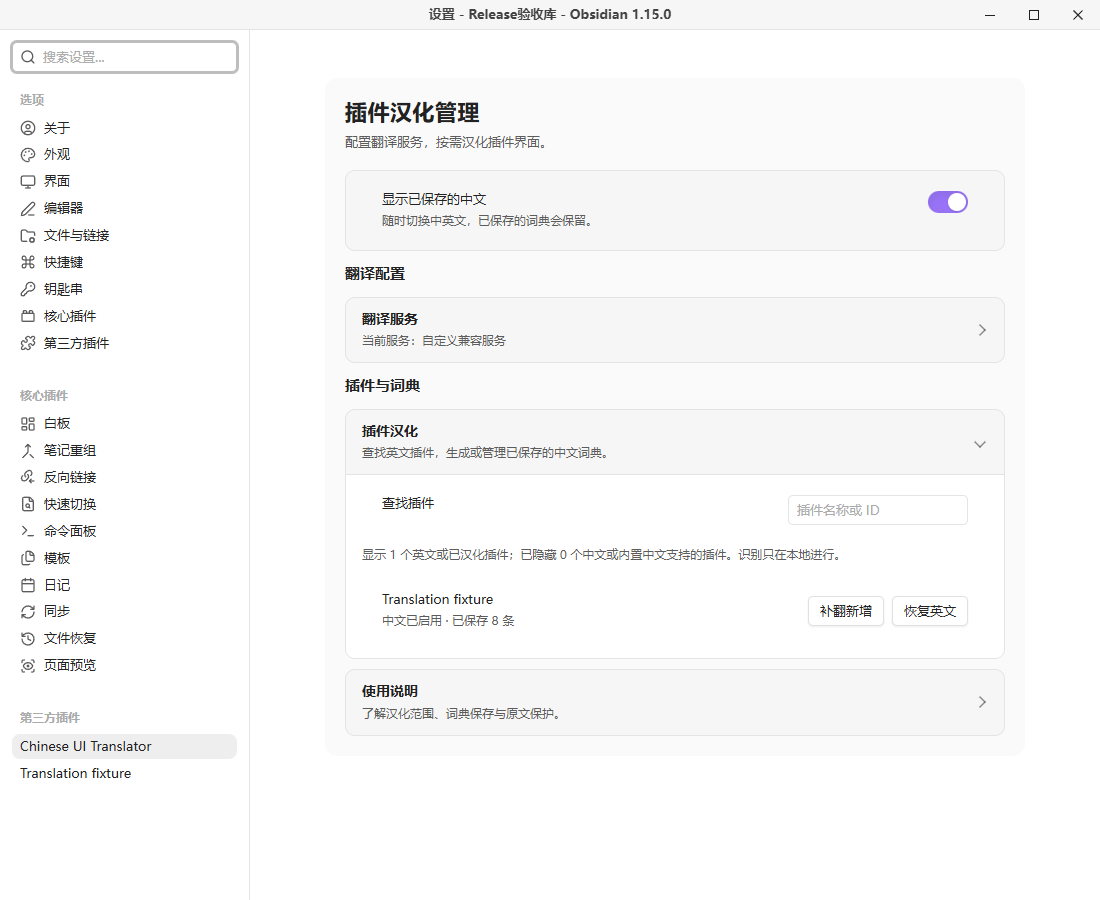
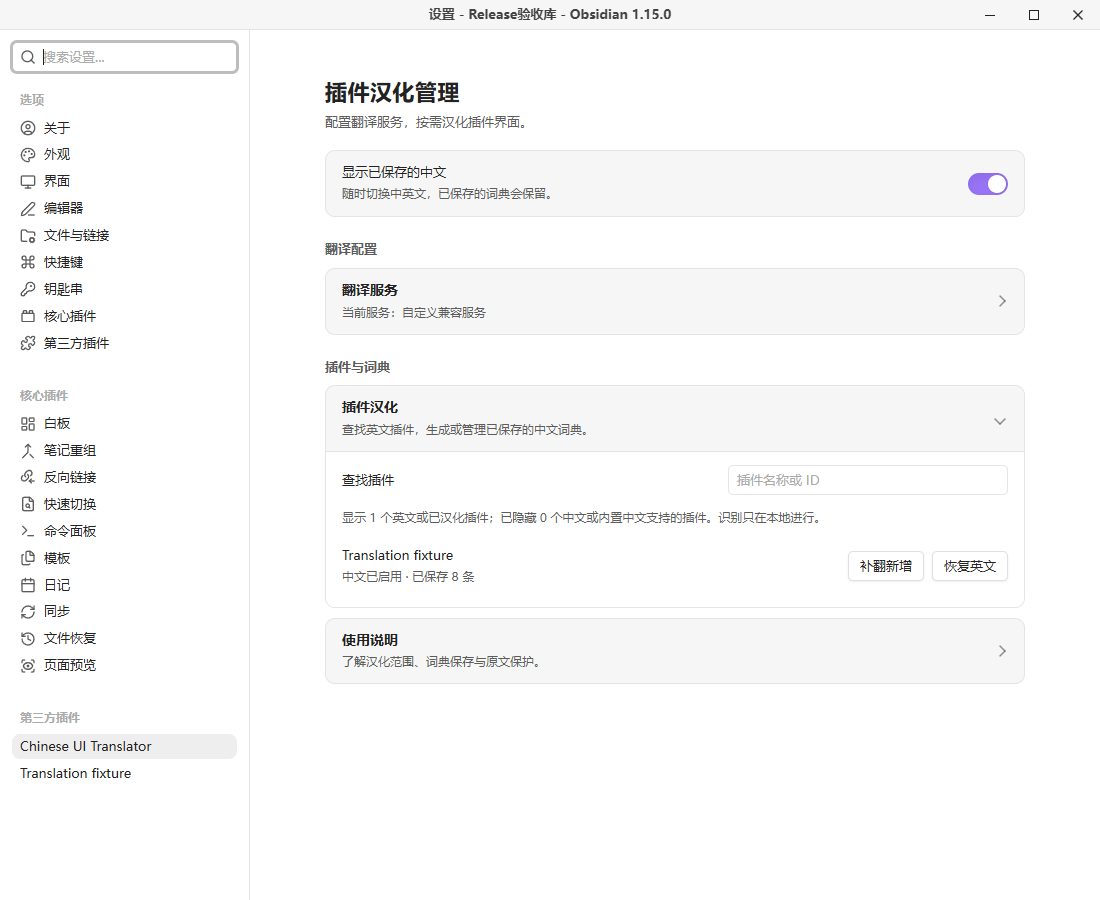
Polish settings alignment and release 0.3.3

diff --git a/styles.css b/styles.css
@@ -1,12 +1,12 @@
 .ba-translation { display: block; margin: .45em 0 .7em; padding-left: .8em; border-left: 2px solid var(--interactive-accent); color: var(--text-muted); font-size: .95em; line-height: 1.65; white-space: pre-wrap; font-weight: normal; }
 .ba-error { border-color: var(--text-error); }
-.ba-settings { --ba-section-radius: 10px; --ba-section-inset: 16px; }
-.ba-settings-intro { margin: 0 0 18px; }
-.ba-settings-intro .setting-item-name { margin: 0; padding: 0; font-size: 22px; line-height: 1.35; letter-spacing: .02em; }
+.ba-settings { --ba-section-radius: 10px; --ba-section-inset: 16px; --ba-control-width: 280px; }
+.ba-settings .ba-settings-intro { margin: 0 0 18px; }
+.ba-settings-intro .setting-item-name { margin: 0; padding: 0; font-size: 22px; font-weight: 700; line-height: 1.35; letter-spacing: .02em; }
 .ba-settings-intro p { margin: 5px 0 0; color: var(--text-muted); font-size: 13px; line-height: 1.5; }
 .ba-settings-status { padding: 0 var(--ba-section-inset); border: 1px solid var(--background-modifier-border); border-radius: var(--ba-section-radius); background: var(--background-secondary); }
 .ba-settings-status .setting-item { border: 0; }
-.ba-settings .ba-settings-area { margin: 24px 0 10px; padding: 0; font-size: 13px; line-height: 1.5; font-weight: 600; color: var(--text-muted); }
+.ba-settings > .setting-item-heading { margin: 24px 0 10px; padding: 0; font-size: 13px; line-height: 1.5; font-weight: 600; color: var(--text-muted); }
 .ba-settings-section { margin: 0; border: 1px solid var(--background-modifier-border); border-radius: var(--ba-section-radius); background: var(--background-secondary); overflow: hidden; }
 .ba-settings-section + .ba-settings-section { margin-top: 10px; }
 .ba-settings-section > summary { display: flex; align-items: center; gap: 16px; padding: 12px var(--ba-section-inset); cursor: pointer; list-style: none; user-select: none; }
@@ -20,12 +20,14 @@
 .ba-section-description { display: block; margin-top: 3px; font-size: 12px; line-height: 1.5; color: var(--text-muted); overflow-wrap: anywhere; }
 .ba-section-body { padding: 0 var(--ba-section-inset) 8px; border-top: 1px solid var(--background-modifier-border); background: var(--background-primary); }
 .ba-settings .setting-item { gap: 16px; padding: 13px 0; }
-.ba-settings .setting-item-info { min-width: 0; }
+.ba-settings .setting-item-info { min-width: 0; margin-inline: 0; }
 .ba-settings .setting-item-name { overflow-wrap: anywhere; }
 .ba-settings .setting-item-description { line-height: 1.5; }
 .ba-settings .setting-item-control { flex-wrap: wrap; gap: 8px; }
-.ba-settings input[type=text], .ba-settings input[type=password] { width: 180px; max-width: 100%; min-width: 0; }
-.ba-settings select { max-width: 240px; }
+.ba-settings input[type=text], .ba-settings input[type=password] { width: var(--ba-control-width); max-width: 100%; min-width: 0; }
+.ba-settings select { width: var(--ba-control-width); max-width: 100%; min-width: 0; }
+.ba-settings :is(input[type=text], input[type=password], select, button) { min-height: var(--input-height, 30px); }
+.ba-settings > .setting-item-heading .setting-item-name { font-size: 13px; font-weight: 600; color: var(--text-muted); }
 .ba-settings textarea { min-height: 90px; width: 100%; }
 .ba-plugin-list .setting-item { align-items: center; }
 .ba-plugin-list .setting-item-control { flex-shrink: 0; }
@@ -41,16 +43,29 @@
  .ba-settings .setting-item { flex-wrap: wrap; gap: 10px; }
  .ba-settings .setting-item-info { flex: 1 1 100%; }
  .ba-settings .setting-item-control { justify-content: flex-start; margin-left: 0; max-width: 100%; }
- .ba-settings select { max-width: 100%; }
+ .ba-settings :is(input[type=text], input[type=password], select) { width: 100%; }
+ .ba-settings .setting-item-control { flex: 1 1 100%; }
+ .ba-settings .setting-item-control > :is(input, select) { flex: 1 1 180px; }
  .ba-settings-status .setting-item { flex-wrap: nowrap; }
  .ba-settings-status .setting-item-info { flex: 1; }
 }
 @media (prefers-reduced-motion: reduce) { .ba-settings-section > summary::after { transition: none; } }
 /* Keep host themes from adding a second card around every native setting row. */
-.ba-settings.ba-settings .setting-item { background: transparent; border-radius: 0; margin: 0; }
-.ba-settings.ba-settings .setting-item-control { width: auto; flex: 0 1 auto; }
+.ba-settings.ba-settings .setting-item { align-items: center; background: transparent; border-radius: 0; margin: 0; padding: 13px 0; }
+.ba-settings.ba-settings > .setting-item-heading { margin: 24px 0 10px; padding: 0; }
+.ba-settings.ba-settings .setting-item-control { width: var(--ba-control-width); flex: 0 0 var(--ba-control-width); }
+.ba-settings.ba-settings .setting-item::before { left: 0; right: 0; }
 .ba-settings.ba-settings .ba-settings-status .setting-item-info { flex: 1 1 auto; }
-.ba-settings.ba-settings .ba-settings-status .setting-item-control { flex: 0 0 auto; }
+.ba-settings.ba-settings .ba-settings-status .setting-item-control { flex: 0 0 auto; width: auto; }
 
-.ba-custom-settings { display: block; width: 100%; }
-.ba-settings-intro .setting-item { padding: 0; border: 0; }
+/* A custom setting definition owns the whole page, not a theme setting card. */
+.setting-items:has(> .ba-custom-settings) { background: transparent; border: 0; border-radius: 0; box-shadow: none; padding: 0; }
+.setting-items > .setting-item.ba-custom-settings { display: block; width: 100%; min-width: 0; padding: 0; border: 0; border-radius: 0; background: transparent; box-shadow: none; }
+.ba-settings.ba-settings .ba-settings-intro .setting-item { padding: 0; border: 0; }
+
+.ba-settings.ba-settings .setting-item-control :is(input[type=text], input[type=password], select) { width: 100%; flex: 1 1 0; max-width: 100%; min-width: 0; }
+@container (max-width: 480px) {
+ .ba-settings.ba-settings .setting-item-control { flex: 1 1 100%; width: 100%; }
+ .ba-settings.ba-settings .setting-item-control :is(input[type=text], input[type=password], select) { width: 100%; flex: 1 1 180px; }
+ .ba-settings.ba-settings .ba-settings-status .setting-item-control { flex: 0 0 auto; width: auto; }
+}

diff --git a/README.md b/README.md
@@ -2,7 +2,7 @@
 
 Translate recognizable English plugin interface labels into Simplified Chinese and reuse saved dictionaries offline. Plugin names, input values, notes and plugin source files are preserved.
 
-**Author:** Tangerine.Cat · **License:** MIT · **Version:** 0.3.2 · **Requires:** desktop Obsidian 1.15.0 or later.
+**Author:** Tangerine.Cat · **License:** MIT · **Version:** 0.3.3 · **Requires:** desktop Obsidian 1.15.0 or later.
 
 ## Getting started
 
@@ -35,7 +35,7 @@ Screenshots use a separate test vault and simulated content, with no personal no
 
 按需将插件界面汉化为简体中文，保存词典后离线应用，保留插件名称与原始文件。
 
-作者：Tangerine.Cat · MIT · 版本 0.3.2· 桌面 Obsidian 1.15.0+
+作者：Tangerine.Cat · MIT · 版本 0.3.3· 桌面 Obsidian 1.15.0+
 
 ![插件汉化管理](docs/screenshots/overview-light.png)
 

diff --git a/CHANGELOG.md b/CHANGELOG.md
@@ -1,5 +1,12 @@
 # 更新记录
 
+## 0.3.3 — 2026-11-08
+
+- 设置页采用单层分区，去掉主题附加的整页灰底与重复内边距。
+- 统一标题、分区间距和右侧控件列宽，修复分隔线的额外缩进。
+- 左侧标签与说明作为整体，与右侧控件垂直居中；窄窗口保持上下排列。
+- 保留现有配置、词典与翻译逻辑，并继续包含 0.3.2 的窗口调度修复。
+
 ## 0.3.2 — 2026-11-08
 
 - 补齐英文 README，回应官方目录英文说明警告。

diff --git a/docs/marketplace.md b/docs/marketplace.md
@@ -1,4 +1,4 @@
-# 市场资料 — 0.3.2
+# 市场资料 — 0.3.3
 
 名称：Chinese UI Translator
 
